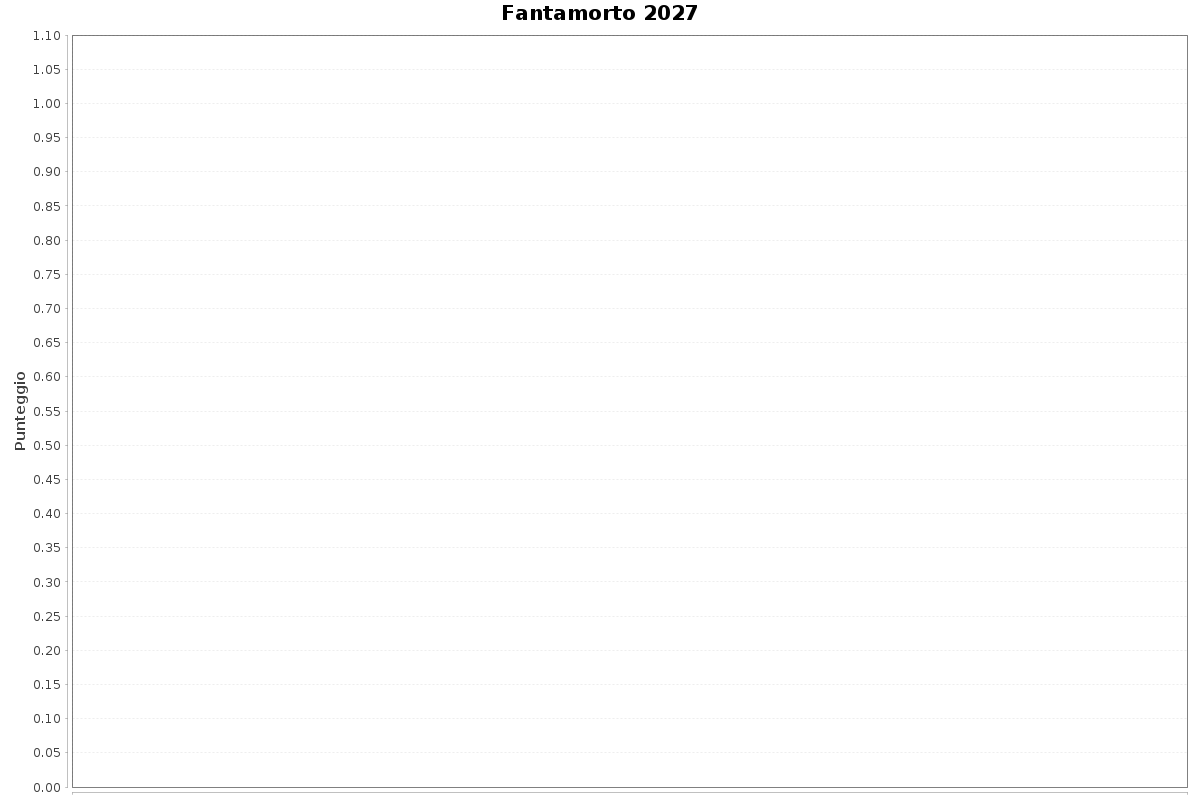
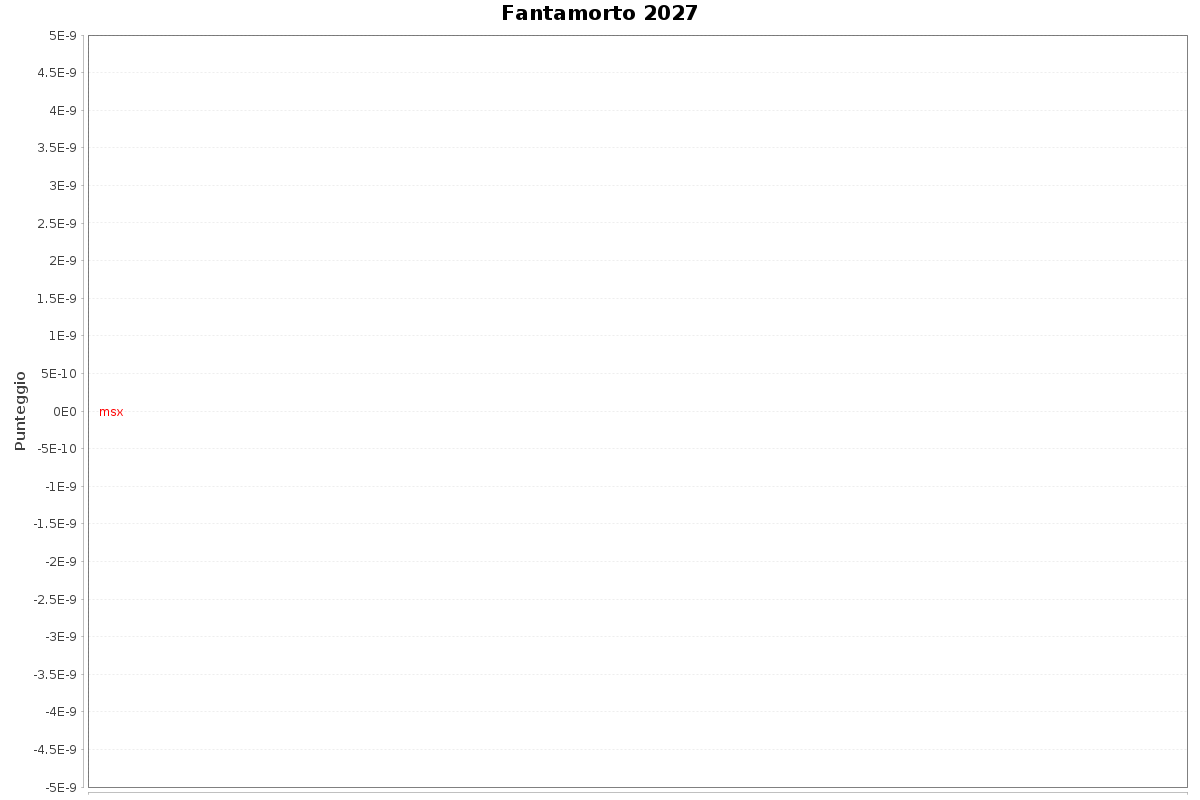
Automatic update

Changed region(s): [[0.0308, 0.125, 0.0925, 0.5625], [0.0308, 0.5938, 0.0617, 1.0], [0.0308, 0.0312, 0.0617, 0.0938]]

diff --git a/tabellone2027.html b/tabellone2027.html
@@ -49,7 +49,7 @@
 <table>
 <img src="chart2027.png"/><br/>
 <h1>Statistiche</h1>
-<p>Utenti iscritti: <b>0</b></p>
+<p>Utenti iscritti: <b>1</b></p>
 <p>Atleti in gara: <b>0</b></p>
 <p>Età media atleti: <b>0</b></p>
 <p>Nazioni rappresentate: <b>0</b></p>
@@ -83,11 +83,13 @@
 <p>Unicit&agrave; squadre:<br/><small>(punteggio indicante quanto una squadra usa atleti poco o per nulla presenti in altre squadre)</small></p>
 <ul>
 
+<li>msx: 0</li>
+
 </ul>
 
 
 <br/>
-<small>Bot uptime: 3d 6h 38m 49s</small><br/>
-<small>Aggiornato: 2026-01-01 00:00:13</small>
+<small>Bot uptime: 90d 9h 30m 35s</small><br/>
+<small>Aggiornato: 2026-10-09 18:33:40</small>
 </body>
 </html>
